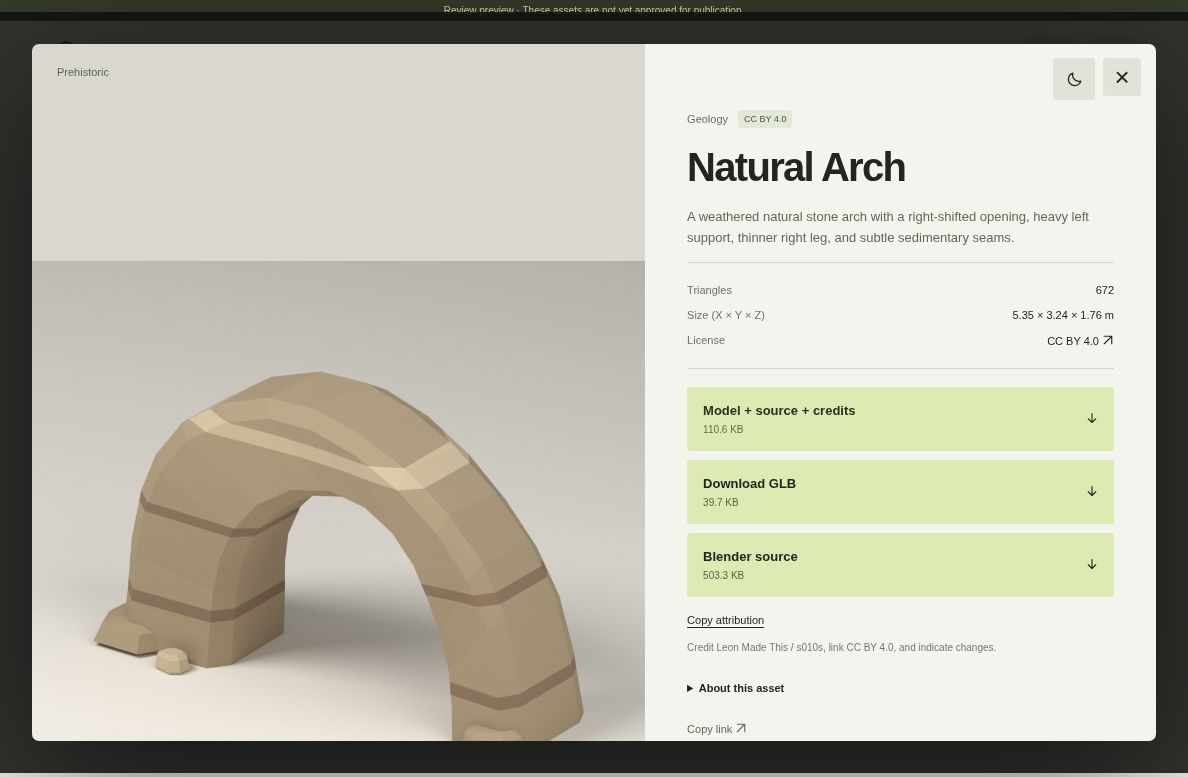
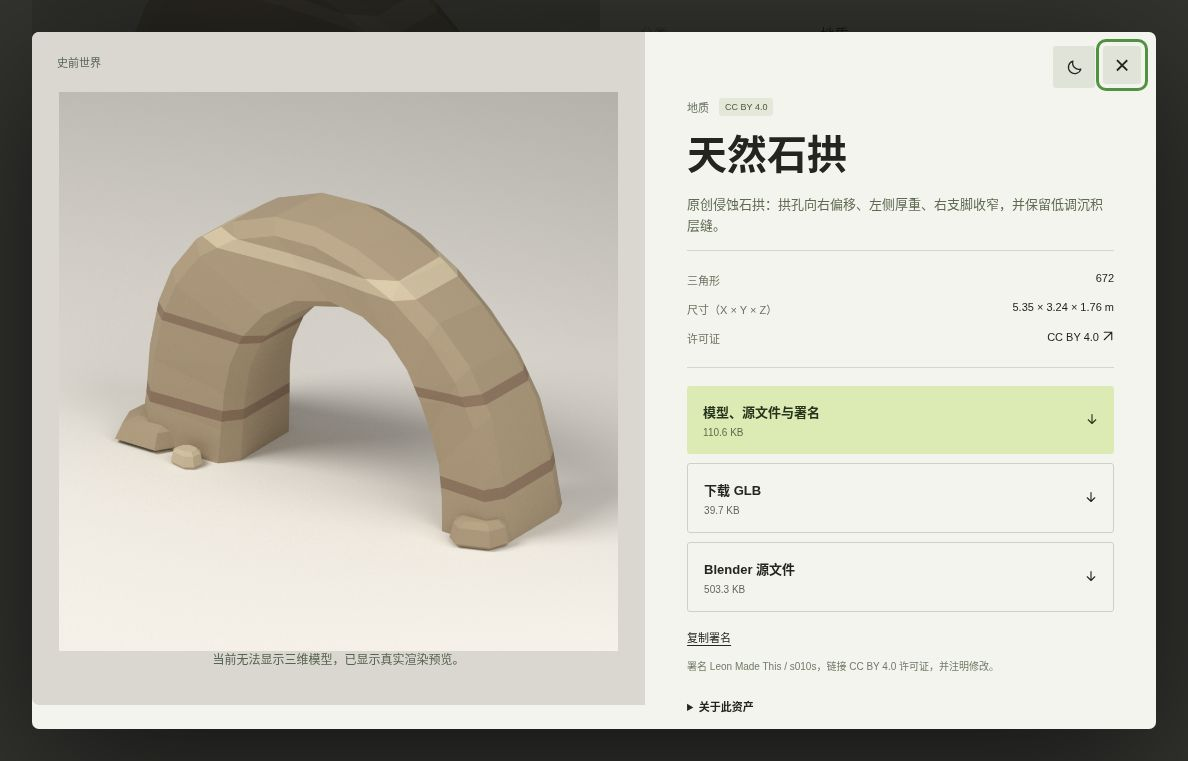
fix(redesign): preserve independent membership and test scoped navigation

diff --git a/site/main.js b/site/main.js
@@ -297,7 +297,9 @@ $('#search').addEventListener('input',()=>{clearTimeout(searchTimer);searchTimer
 $('#sort').onchange=()=>{page=0;updateListing();};$('#prev-page').onclick=()=>{page--;updateListing({push:true});$('#collection').scrollIntoView({block:'start'});};$('#next-page').onclick=()=>{page++;updateListing({push:true});$('#collection').scrollIntoView({block:'start'});};
 $('#provenance').addEventListener('toggle',()=>{if($('#provenance').open)motionUI.run($('#asset-provenance'),[{opacity:0,transform:'translateY(6px)'},{opacity:1,transform:'none'}],{duration:180});});
 $('#downloads').addEventListener('click',event=>{if(event.target.closest('a'))setStatus(lang==='zh'?'已请求下载文件，是否完成请查看浏览器。':'Download requested. Check your browser for progress.');});
+document.addEventListener('pointerdown',event=>{if(refine.open&&!refine.contains(event.target))refine.open=false;});
 document.addEventListener('keydown',event=>{
+  if(event.key==='Escape'&&!selected&&refine.open){refine.open=false;refine.querySelector('summary').focus();}
   if(event.key==='Tab'&&$('#viewer-dialog').open){
     const dialog=$('#viewer-dialog');
     const focusable=[...dialog.querySelectorAll('a[href],button,input,select,textarea,summary,[tabindex]')].filter(el=>!el.disabled&&el.tabIndex>=0&&el.getClientRects().length&&!el.closest('[hidden],[inert]'));

diff --git a/README.md b/README.md
@@ -37,7 +37,7 @@ Additional themes will appear here as they are developed.
 
 ## Inside the vault
 
-Assets are organized by **theme → broad category → asset slug**. The following is the target layout, not a list of files already released:
+Existing source folders retain the legacy **theme → broad category → asset slug** layout below. Catalog identity and membership are independent: changing a world, pack, or category does not move files or duplicate an asset. The release manifest is generated only after QA approval:
 
 ```text
 assets/
@@ -52,7 +52,7 @@ assets/
             └── preview-hero.png       # Preview image
 ```
 
-The shared catalog lives at `assets/manifest.json`. Broad categories keep related assets together; theme-specific context and limitations belong in each theme's README.
+The approved shared catalog lives at `assets/manifest.json`; review builds generate a separate review-only manifest. New metadata can use `worlds` and `packs` without `collection`; legacy `collection` remains a primary-world fallback. See [schema v2](docs/catalog-schema-v2.md).
 
 ## License & credit
 
@@ -70,6 +70,6 @@ The review branch preserves ten original candidates; it is not a published or ap
 
 Build-time English and Simplified Chinese model pages are real HTML documents: `/models/<id>/` and `/zh-CN/models/<id>/`. They retain descriptions, images, attribution and downloads without JavaScript. Ordinary list clicks enhance to a modal while preserving filter/sort/query/page state and Back navigation. ZIP downloads contain the GLB, editable source and CREDITS.txt; sizes are measured from the actual files.
 
-Review commands: `npm run test:redesign`; `SITE_BASE=/lowpoly-vault/ node site/prepare-review.mjs`; `node site/redesign-browser-test.mjs`. See [build and release safety](docs/static-catalog-build-v2.md), [schema v2](docs/catalog-schema-v2.md), and the [implementation checklist](docs/redesign-v2-checklist.md). The release copier uses only the approved manifest's explicit file allowlist. No approved manifest means no model binaries are copied to release output.
+Review commands: `npm test` (structural review checks; no approval), `npm run test:redesign`; `SITE_BASE=/lowpoly-vault/ node site/prepare-review.mjs`; `node site/redesign-browser-test.mjs`. See [build and release safety](docs/static-catalog-build-v2.md), [schema v2](docs/catalog-schema-v2.md), and the [implementation checklist](docs/redesign-v2-checklist.md). The release copier uses only the approved manifest's explicit file allowlist. No approved manifest means no model binaries are copied to release output.
 
 A three-model [preview experiment](experiments/preview-turntable-v3/README.md) preserves original scale and geometry. Measurements favor static cards plus lazy real GLB inspection over 16-frame sprite sheets for this small collection. CPU proxies and cloud UI fallback screenshots are clearly separated from actual browser/WebGL and touch-device acceptance.

diff --git a/docs/catalog-schema-v2.md b/docs/catalog-schema-v2.md
@@ -19,7 +19,7 @@ Status: canonical v2 contract, 2026-10-16. Additive extensions are permitted thr
 
 ## Production compatibility and specifications
 
-Existing `collection` stays as a legacy primary-world alias, read fallback only. `worlds` falls back to `[collection]`. Category and path compatibility remain untouched; no directory migration is necessary. Assets are not copied to multiple directories when assigned to multiple packs.
+Existing `collection` stays as a legacy primary-world alias, read fallback only. `worlds` falls back to `[collection]`. Category and path compatibility remain untouched; no directory migration is necessary. Manifest collection accepts world-only metadata and uses its original directory as the source location instead of requiring folder names to match mutable membership. Assets are not copied to multiple directories when assigned to multiple packs.
 
 Existing `preview`, `glb`, `blend`, `triangles`, `dimensions`, license and attribution fields remain. Dimensions are the existing X×Y×Z source meter bounds and require trustworthy unit/export verification before a metric viewer reference appears. `file_sizes: {glb,blend,bundle}` contains exact bytes measured at build, never hand-entered estimates. `downloads: {glb,blend,bundle}` contains actual published paths. Reliable format availability derives from real files. Materials/animation/color filters must not appear until data is actually verified; missing fields are not false claims.
 

diff --git a/docs/redesign-v2-checklist.md b/docs/redesign-v2-checklist.md
@@ -43,3 +43,6 @@ The original working directory and port-5188 review build remain intact. Impleme
 - 6d75ce2: preview experiment, mobile screenshots and layout polish. Uploaded to WIP branch and backed up privately in two verified ZIPs (original assets 80,542,918 bytes; code/renders 57,188,345 bytes).
 - Follow-up CI found keyboard focus could leave the modal at a tab-order boundary. Explicit visible/eligible focus wrapping was added; strict browser rerun pending.
 - Real cloud Chromium image decode probe now recorded in the experiment: static median 1.00–1.20 ms versus sheet 9.90–13.20 ms. This measures fresh image decoding from preloaded bytes, not network/GPU/device frame rate.
+
+- c988773: keyboard containment and queued history navigation; actual cloud Tab cycling passes. CI reached all ten models and the complete locale/theme/viewport screenshot matrix, then its rapid-hover test was obstructed by the intentionally still-open filter disclosure. The test now closes that panel before hover; Escape/outside-click dismissal was also added.
+- Manifest validation now accepts world-only metadata independently of legacy folder names, with regression coverage for stable ID/path compatibility and multi-world/multi-pack records. `npm test` performs explicit review-only structural checks without creating an approved manifest.
